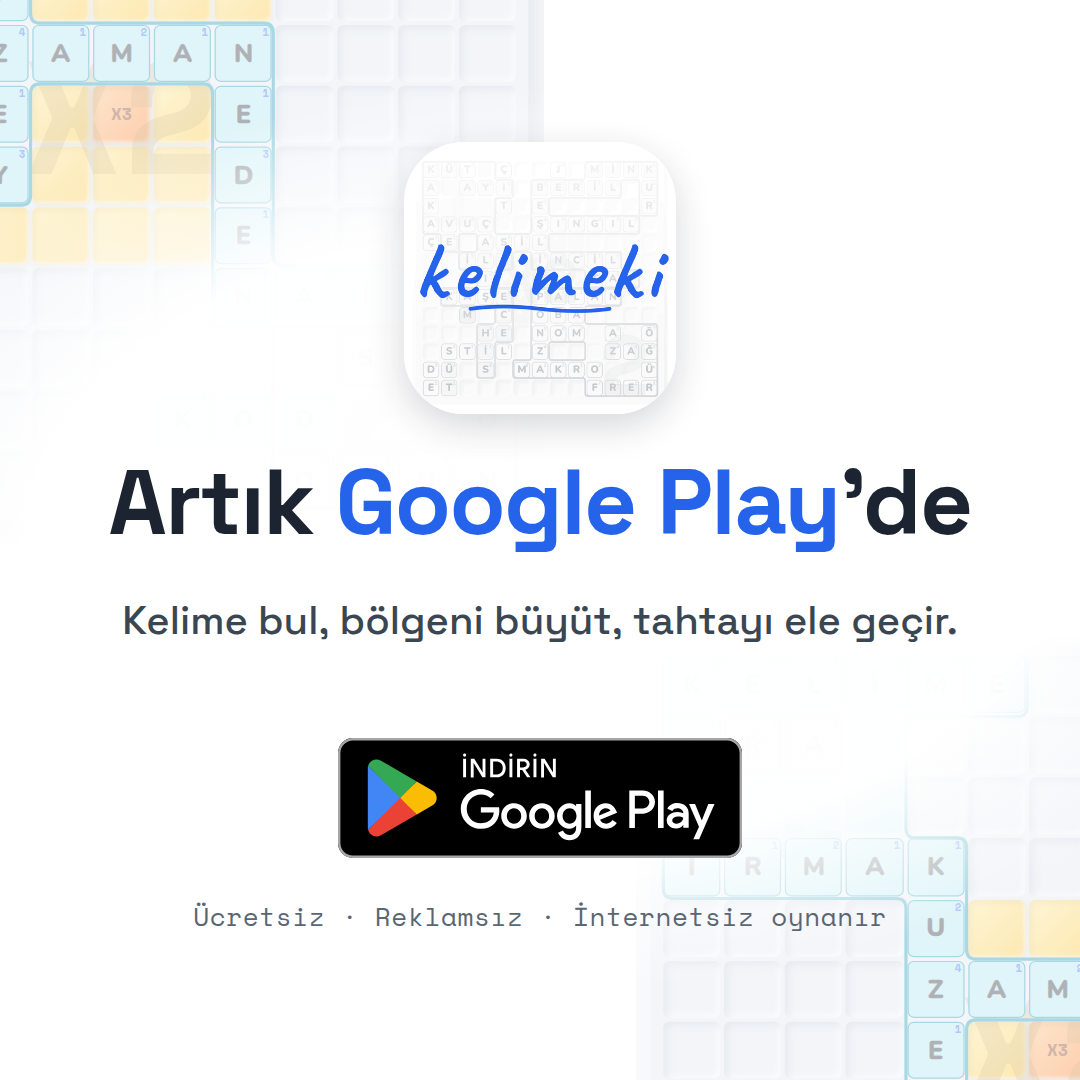
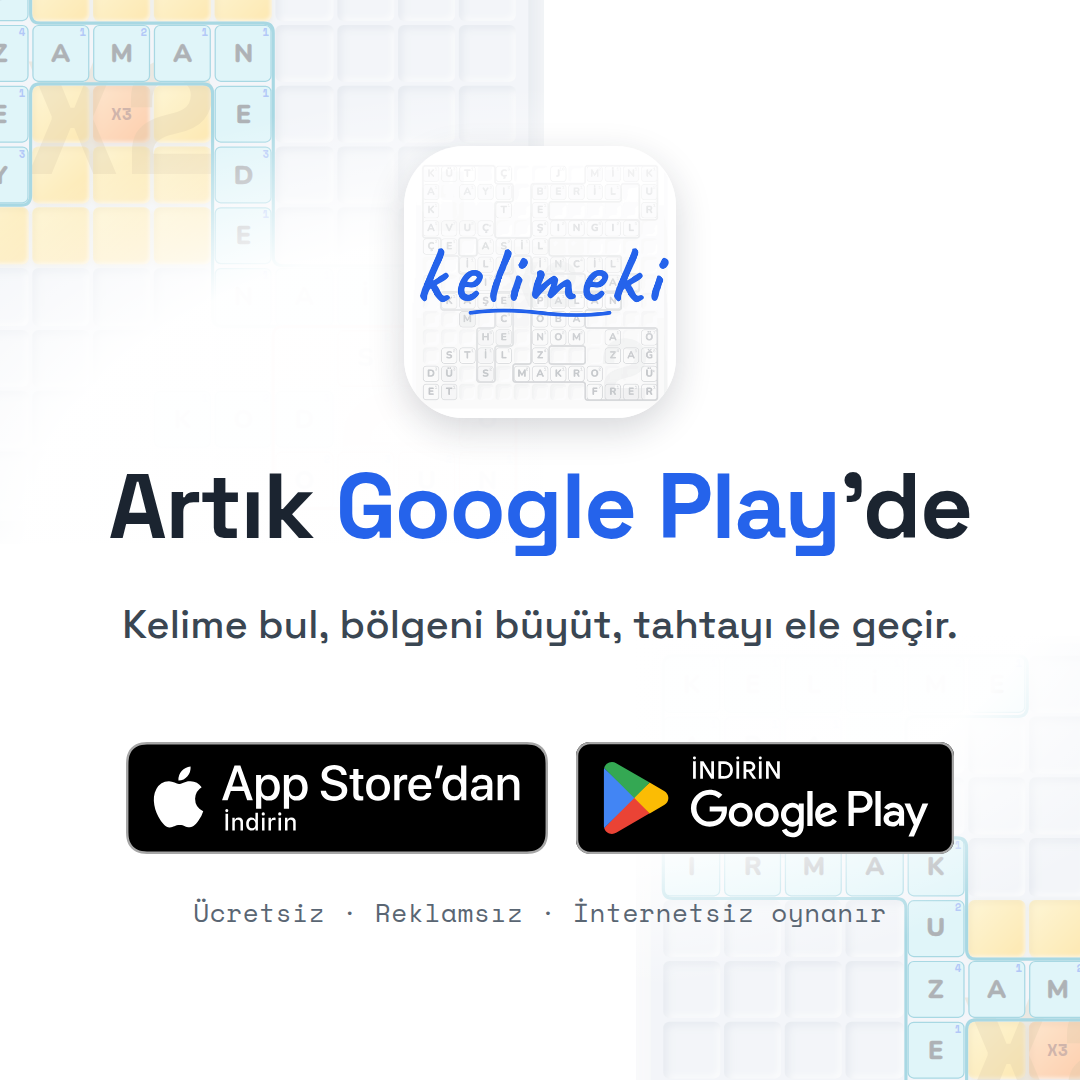
Pazarlama: lansman görsellerinde iki rozet (App Store + Google Play)
Play lansman setine App Store rozeti eklendi (sıra ve kapı
visibleStoreBadges'ten, eşit yükseklik; üretici iki rozeti ölçüyor).
Carousel kareleri ve LinkedIn kapakları Play yayına girdikten sonra
yeniden üretilmemişti — yeniden üretildi. Apple atıf satırı kullanıcı
kararına bırakıldı (§0.1).

Claude-Session: https://claude.ai/code/session_013dE4YtCbyKB92nMS3fg6J3

diff --git a/scripts/play-lansman/gorsel.tsx b/scripts/play-lansman/gorsel.tsx
@@ -7,21 +7,26 @@
 // Ölçüler CSS px, 2× çekilir: kare 540 → 1080, story 540×960 → 1080×1920,
 // link kartı 600×314 → 1200×628.
 //
-// Rozet `public/google-play-badge.svg` — sitede kullanılan RESMÎ dosya;
-// ÇİZİLMEZ, oranı/rengi değiştirilmez. Tahtalar üretimdeki
+// Rozetler `public/`teki RESMÎ dosyalar (sitede kullanılanlar); ÇİZİLMEZ,
+// oranı/rengi değiştirilmez. Hangi rozetin çıktığı ve SIRASI üretimin
+// kapısından gelir (`visibleStoreBadges` — App Store ÖNCE, Apple'ın yazılı
+// kuralı); ikisi EŞİT YÜKSEKLİKTE (24 Eylül 2026 kullanıcı kararı,
+// `storeLinks.ts`). 27 Eylül 2026'ya kadar yalnızca Play rozeti vardı —
+// kullanıcı: "ikisinin de olması lazım". Tahtalar üretimdeki
 // `GameBoardPreview`, logo `LandingLogo` (ikinci bir çizim sessiz ayrışır).
 // Tailwind SINIFI YOK — `scripts/` tailwind content'inde değil.
 import { renderToStaticMarkup } from 'react-dom/server';
 import { LandingLogo, LandingLogoDefs } from '../../src/landing/LandingLogo';
 import { GameBoardPreview } from '../../src/components/GameBoardPreview';
 import { DEMO_TILES_2, DEMO_TILES_4 } from '../../src/landing/demoBoard';
+import { BADGE_GAP_PX, BADGE_HEIGHT_PX, visibleStoreBadges } from '../../src/utils/storeLinks';
 
 const BOARD_BASE_W = 680;
 const MONO = '"Space Mono", monospace';
 const SANS = '"Space Grotesk", sans-serif';
 const ACCENT = '#2563EB';
-/** Resmî rozetin viewBox oranı (238.96 × 70.87). */
-const ROZET_ORAN = 238.96 / 70.87;
+/** Rozet dosyası (`public/` yolu) → build'in gömdüğü data URI. */
+export type RozetKaynaklari = Record<string, string>;
 
 export type Duzen = 'kare' | 'story' | 'dikey' | 'yatay' | 'link';
 
@@ -57,16 +62,23 @@ function Tahta({ tiles, sayi, olcek, stil }: {
   );
 }
 
-/** Düzene göre tipografi/boyut tablosu — tek yerde, üç düzen yan yana. */
+/** Düzene göre tipografi/boyut tablosu — tek yerde, üç düzen yan yana.
+ *
+ *  `rozet` = iki rozetin ORTAK yüksekliği (CSS px). Yan yana iki rozet
+ *  (≈ 7,15 × yükseklik + boşluk) kutuya sığacak kadar: kare/story'de
+ *  kutu 443 px. Kare ve story telefonda ~390 pt'ye çizilir (×0,72) —
+ *  56/58 px orada 40 pt'nin üstünde kalır (Apple'ın alt sınırı,
+ *  `BADGE_MIN_HEIGHT_PX`). Yan düzenlerde (yatay/link) sütun dar, rozet
+ *  sütuna sığan en büyük değer. */
 const OLCU = {
-  kare: { ikon: 136, logo: 0, baslik: 46, alt: 20, rozet: 60, dip: 13, bosluk: 20 },
-  story: { ikon: 168, logo: 0, baslik: 56, alt: 23, rozet: 68, dip: 14, bosluk: 26 },
-  dikey: { ikon: 112, logo: 0, baslik: 37, alt: 16, rozet: 46, dip: 10, bosluk: 17 },
-  yatay: { ikon: 0, logo: 46, baslik: 34, alt: 16, rozet: 50, dip: 11, bosluk: 14 },
-  link: { ikon: 0, logo: 40, baslik: 33, alt: 14, rozet: 42, dip: 11, bosluk: 11 },
+  kare: { ikon: 136, logo: 0, baslik: 46, alt: 20, rozet: 56, dip: 13, bosluk: 20 },
+  story: { ikon: 168, logo: 0, baslik: 56, alt: 23, rozet: 58, dip: 14, bosluk: 26 },
+  dikey: { ikon: 112, logo: 0, baslik: 37, alt: 16, rozet: 38, dip: 10, bosluk: 17 },
+  yatay: { ikon: 0, logo: 46, baslik: 34, alt: 16, rozet: 33, dip: 11, bosluk: 14 },
+  link: { ikon: 0, logo: 40, baslik: 33, alt: 14, rozet: 34, dip: 11, bosluk: 11 },
 } as const;
 
-function Gorsel({ duzen, ikonSrc, rozetSrc }: { duzen: Duzen; ikonSrc: string; rozetSrc: string }) {
+function Gorsel({ duzen, ikonSrc, rozetler }: { duzen: Duzen; ikonSrc: string; rozetler: RozetKaynaklari }) {
   const { w, h } = OLCULER[duzen];
   const o = OLCU[duzen];
   const yan = YAN.includes(duzen);
@@ -74,7 +86,13 @@ function Gorsel({ duzen, ikonSrc, rozetSrc }: { duzen: Duzen; ikonSrc: string; r
   const pay = Math.round(h * 0.06);
   const tahtaKenar = h - 2 * pay;
   const rozet = (
-    <img src={rozetSrc} alt="Google Play'den alın" style={{ height: o.rozet, width: o.rozet * ROZET_ORAN, display: 'block' }} />
+    <div data-rozetler="" style={{ display: 'flex', alignItems: 'center', gap: Math.round((o.rozet * BADGE_GAP_PX) / BADGE_HEIGHT_PX) }}>
+      {visibleStoreBadges().map((b) => {
+        const src = rozetler[b.asset];
+        if (!src) throw new Error(`rozet dosyası gömülmedi: ${b.asset}`);
+        return <img key={b.key} src={src} alt={b.alt} style={{ height: o.rozet, width: 'auto', display: 'block' }} />;
+      })}
+    </div>
   );
   const baslik = (
     <p style={{ margin: 0, fontSize: o.baslik, lineHeight: 1.08, fontWeight: 700, letterSpacing: -0.8 }}>
@@ -148,10 +166,10 @@ function Gorsel({ duzen, ikonSrc, rozetSrc }: { duzen: Duzen; ikonSrc: string; r
   );
 }
 
-export function renderGorselHtml(duzen: Duzen, cssHref: string, ikonSrc: string, rozetSrc: string): string {
+export function renderGorselHtml(duzen: Duzen, cssHref: string, ikonSrc: string, rozetler: RozetKaynaklari): string {
   return `<!doctype html>
 <html lang="tr"><head><meta charset="utf-8"><title>Kelimeki Google Play ${duzen}</title>
 <link rel="stylesheet" href="${cssHref}">
 <style>html,body{margin:0;padding:0;background:#fff}</style>
-</head><body>${renderToStaticMarkup(<Gorsel duzen={duzen} ikonSrc={ikonSrc} rozetSrc={rozetSrc} />)}</body></html>`;
+</head><body>${renderToStaticMarkup(<Gorsel duzen={duzen} ikonSrc={ikonSrc} rozetler={rozetler} />)}</body></html>`;
 }

diff --git a/marketing/play-store/sosyal-lansman.md b/marketing/play-store/sosyal-lansman.md
@@ -14,15 +14,28 @@ biçim).
 
 **Bu turun App Store turundan farkı:** Görseller Apple'ın değil, bizim
 (`marketing/play-store/lansman/`, üreticisi `scripts/play-lansman/`).
-Tescilli Apple artwork'ü kısıtı burada YOK, ama içindeki Google Play
-rozeti Google'ın — rozetin kendisine dokunulmaz.
+Tescilli Apple artwork'ü kısıtı burada YOK, ama içindeki iki rozet
+Apple'ın ve Google'ın — rozetlerin kendisine dokunulmaz.
+
+**27 Eylül 2026 — HER görselde İKİ rozet** (kullanıcı: *"ikisinin de
+olması lazım"*). Lansman setine App Store rozeti eklendi (App Store ÖNCE,
+eşit yükseklik — sıra ve kapı `visibleStoreBadges`ten, `storeLinks.ts`);
+üretici artık iki rozeti ve eşit yüksekliklerini ölçüp doğruluyor. Carousel
+kareleri (`sponsored-2026-08/`) ve iki LinkedIn kapağı zaten mağaza
+kapısından besleniyordu ama Play yayına girdikten (24 Eylül) sonra
+YENİDEN ÜRETİLMEMİŞTİ — hâlâ yalnızca "App Store'da" diyorlardı; üçü de
+yeniden üretildi. ⚠ Ders: `storeLinks.ts`teki bir `null` dolunca kapıya
+bağlı her pazarlama üreticisi yeniden koşulmalı (`generate-play-lansman`,
+`sponsored-post/build.mjs`, `generate-linkedin-cover`,
+`generate-linkedin-page-cover`) — kapı kodu günceller, PNG'leri değil.
 
 ---
 
 ## 0 · Legal satırı — rozetli HER gönderide
 
 Görsellerde Google Play rozeti, metinlerde "Android" kelimesi (ve
-IG/LinkedIn'de `#android` etiketi) var; ikisi de ayrı atıf istiyor:
+IG/LinkedIn'de `#android` etiketi) var; ikisi de ayrı atıf istiyor.
+(Apple rozeti için bkz. §0.1 — karar bekliyor.)
 
 ```
 Android, Google LLC'nin ticari markasıdır.
@@ -51,6 +64,17 @@ Kılavuzun iki kuralı daha — bilerek UYGULANMADI, kullanıcı kararı bekler:
   ya da Play rozet sayfası sosyal için istiyorsa eklenir.
 - **"iyelik/çoğul yapma"**: İngilizce kuralı; Türkçede `Android'de` hâl
   eki, iyelik değil — kaçınmanın yolu yok, dokunulmadı.
+
+### 0.1 · Apple satırı — KULLANICI KARARI BEKLİYOR (27 Eylül 2026)
+
+Görsellere App Store rozeti girdi; metinler zaten "App Store", "iPhone",
+"iPad" diyor. 16 Eylül App Store turunda Apple atfı HİÇ konmamıştı (üç
+dosyada da yok). Apple'ın kılavuzundaki satır İngilizce; Türkçe resmî
+karşılığı bu ortamdan DOĞRULANMADI (ajan apple.com'dan okumadı):
+
+```
+Apple, the Apple logo, iPhone, and iPad are trademarks of Apple Inc., registered in the U.S. and other countries and regions. App Store is a service mark of Apple Inc.
+```
 
 ---
 
@@ -248,8 +272,8 @@ doğrudan giden tıklama Kaynak Hunisi'nde GÖRÜNMEZ.
 - ❌ App Store turunun etiketlerini (`fb-sayfa`, `li-sayfa`, `li-profil`)
   tekrar kullanma — iki lansman karışır (§5).
 - ❌ Legal satırını atlama (§0).
-- ❌ Google Play rozetini kırpma, yeniden renklendirme ya da ikinci bir
-  rozet bindirme. Rozet dışındaki her şey bizim, değiştirilebilir —
+- ❌ Rozetleri kırpma, yeniden renklendirme, sırasını değiştirme (App
+  Store önce) ya da üçüncü bir rozet bindirme. Rozet dışındaki her şey bizim, değiştirilebilir —
   üreticiden (`npm run build && npm run generate-play-lansman`).
 - ❌ Instagram'ın otomatik Facebook paylaşımını açma (gerekçe:
   `app-store/facebook-lansman.md` §1).

diff --git a/docs/decisions/marketing-assets.md b/docs/decisions/marketing-assets.md
@@ -275,6 +275,14 @@ yalnızca "Device art generator" ve "Legal line generator" var.
 - Rozet `public/google-play-badge.svg` (sitedeki resmî dosya) — çizilmez,
   oranı değiştirilmez. Rozet kullanıldığı için gönderi metnine Google'ın
   legal satırı girer (Legal line generator).
+- **27 Eylül 2026: İKİ rozet** (kullanıcı: *"ikisinin de olması lazım"*).
+  App Store rozeti de eklendi; hangi rozetin çıktığı ve sırası üretimin
+  kapısından (`visibleStoreBadges` — App Store önce, eşit yükseklik).
+  Betik iki rozetin kadrajda ve eşit yükseklikte olduğunu ölçer. Aynı gün
+  fark edildi: kapıya bağlı carousel kareleri (`sponsored-2026-08/`) ve
+  LinkedIn kapakları Play yayına girdikten sonra yeniden üretilmemişti,
+  hâlâ yalnızca App Store diyorlardı — ⚠ `storeLinks.ts` değişince kapıya
+  bağlı üreticileri YENİDEN KOŞ (liste: `play-store/sosyal-lansman.md`).
 - Simge cihazdaki başlatıcı ikonla aynı kaynak (`icon-source.png`); simge
   "kelimeki" yazısını taşıdığı için kare/story'de ayrıca logo YOK.
 - Story'de içerik Instagram'ın bindirme bantlarının (üst ~%14, alt ~%20)
